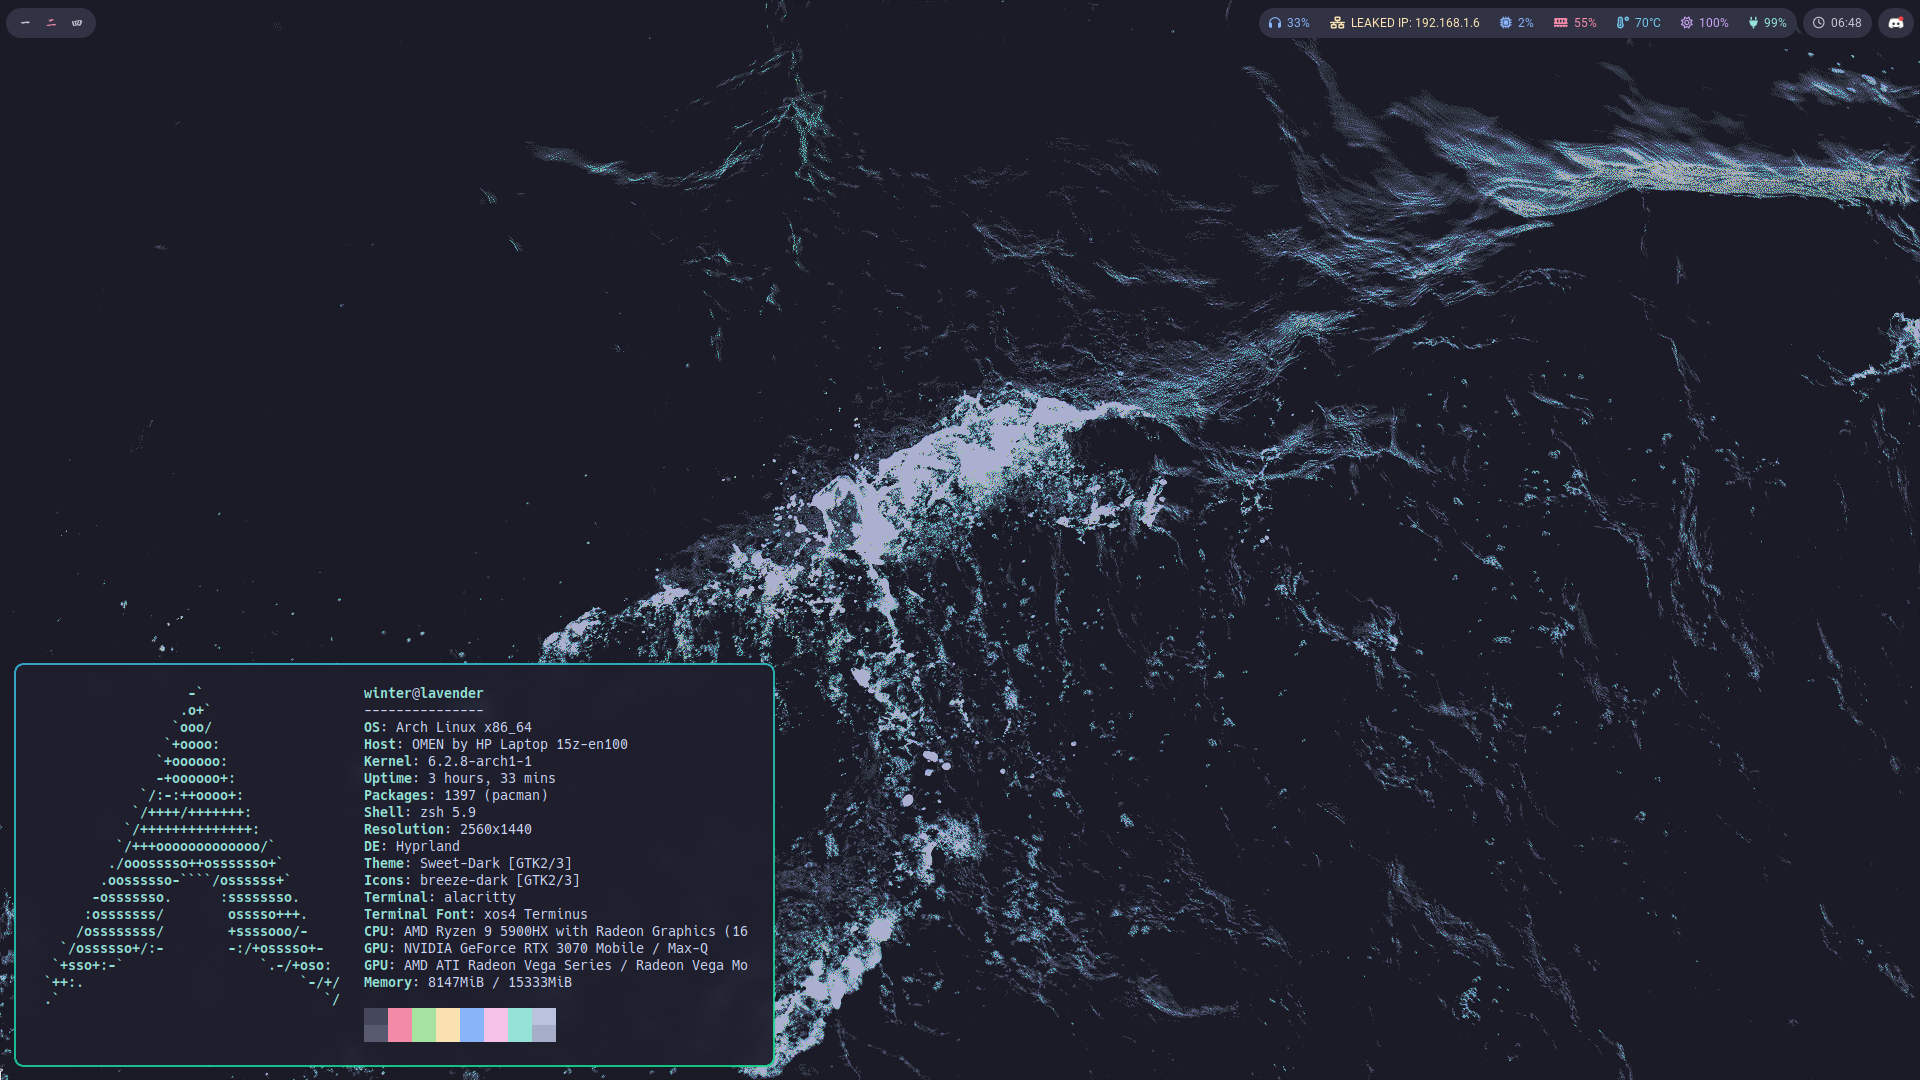
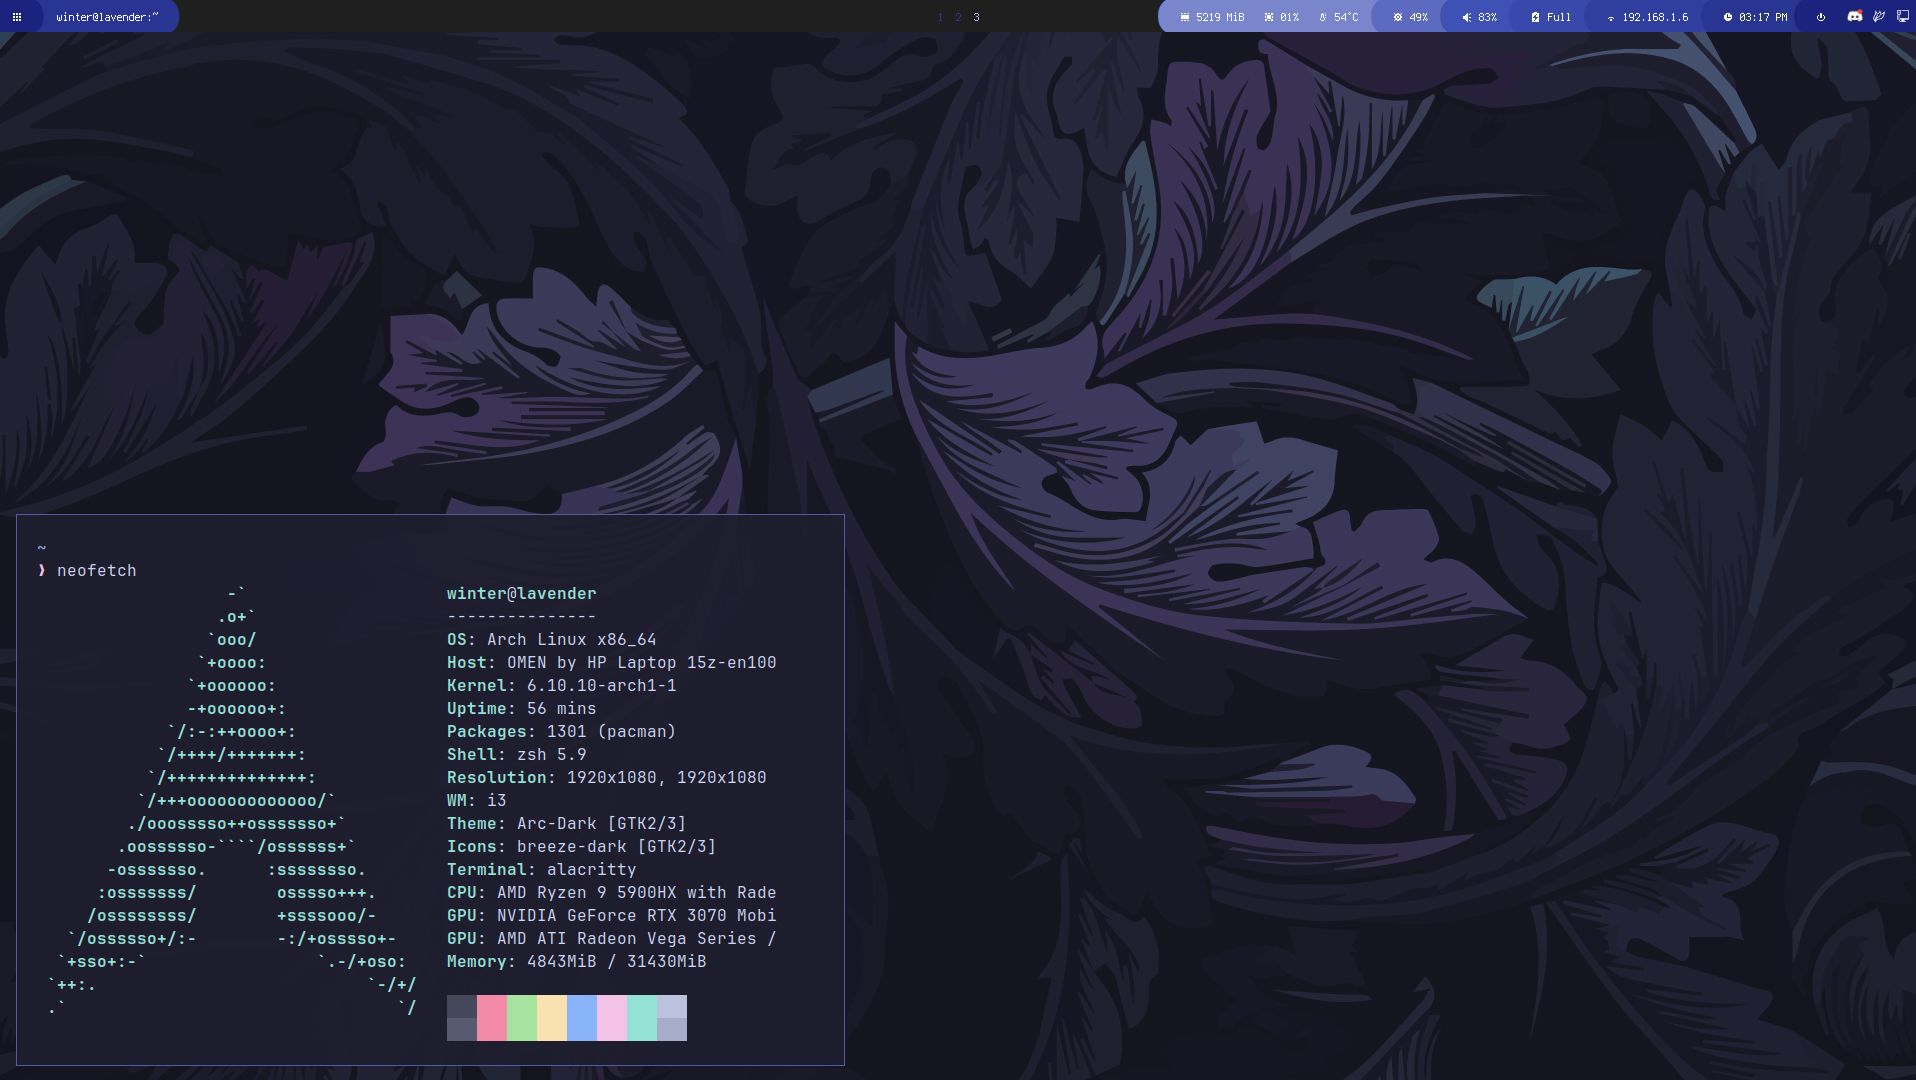
Update screenshot

diff --git a/README.md b/README.md
@@ -14,4 +14,4 @@
 | Application Launcher | [dmenu](https://wiki.archlinux.org/title/Dmenu)                             |
 
 
-![Screenshot](screenshot.png)
+![Screenshot](screenshot.png?new)
